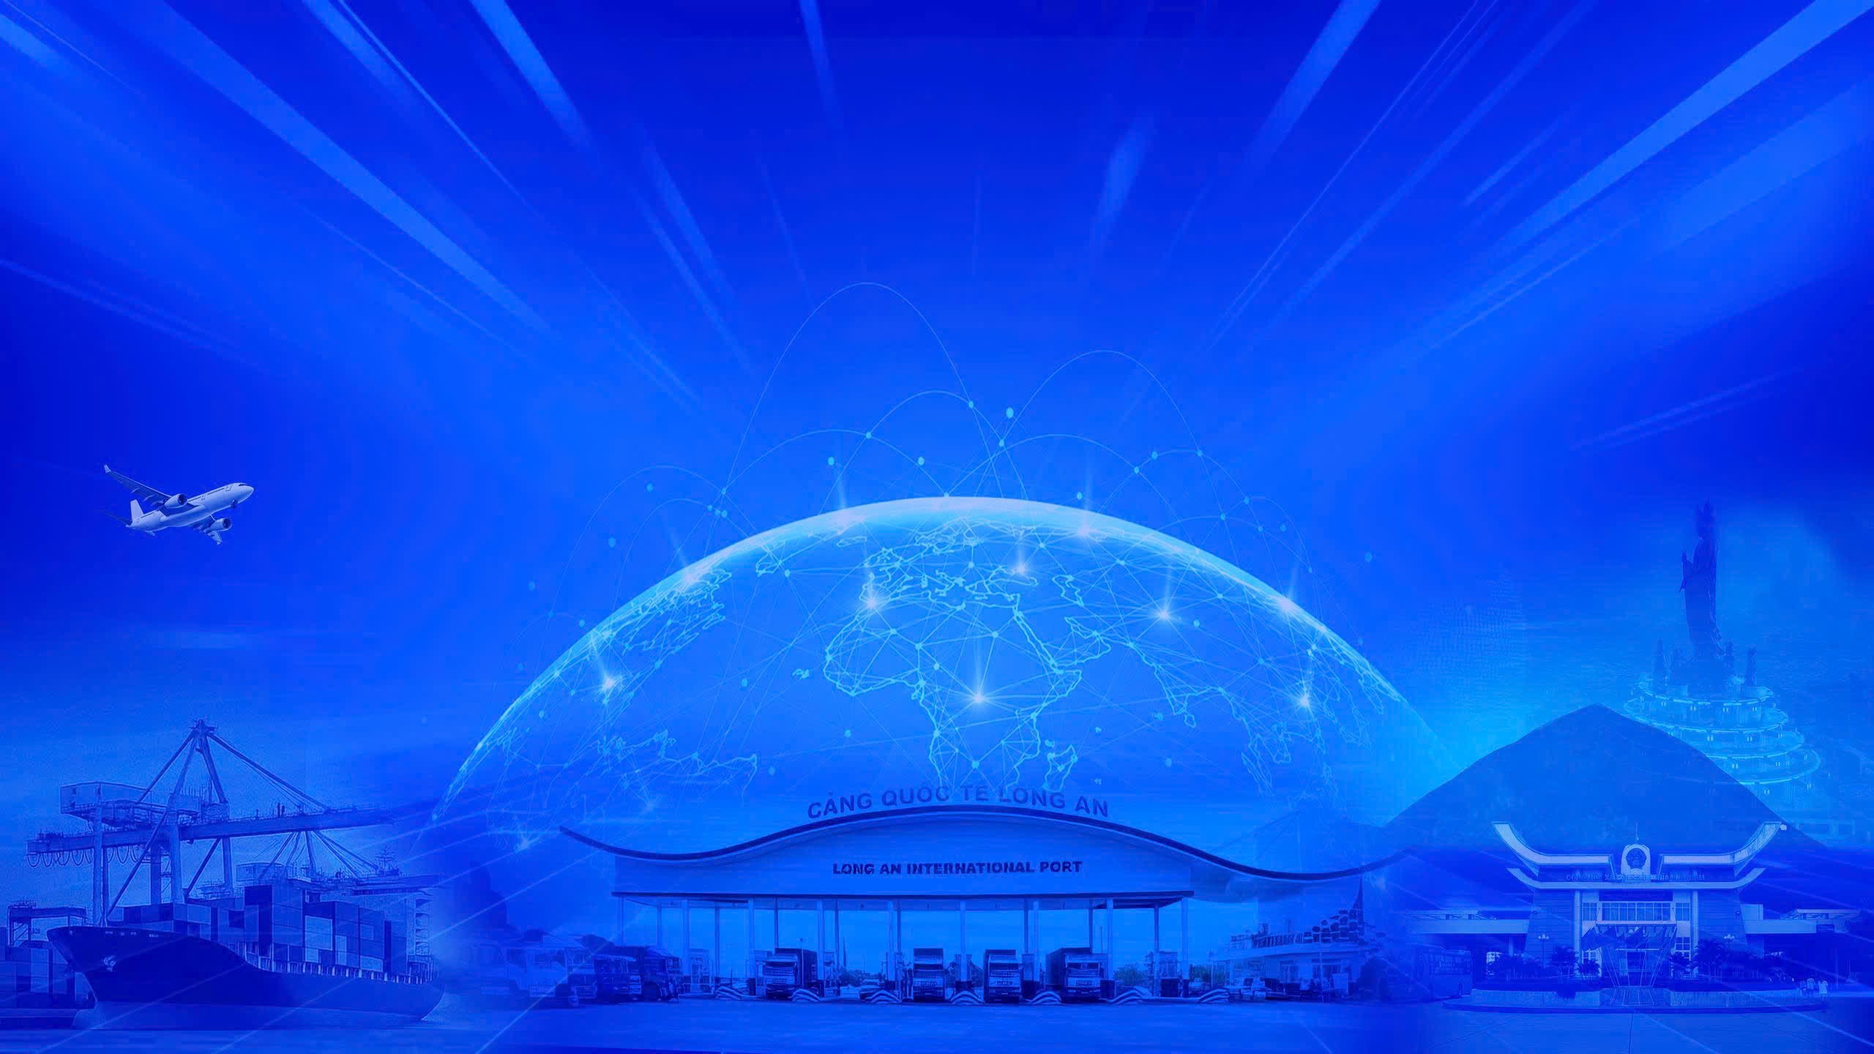
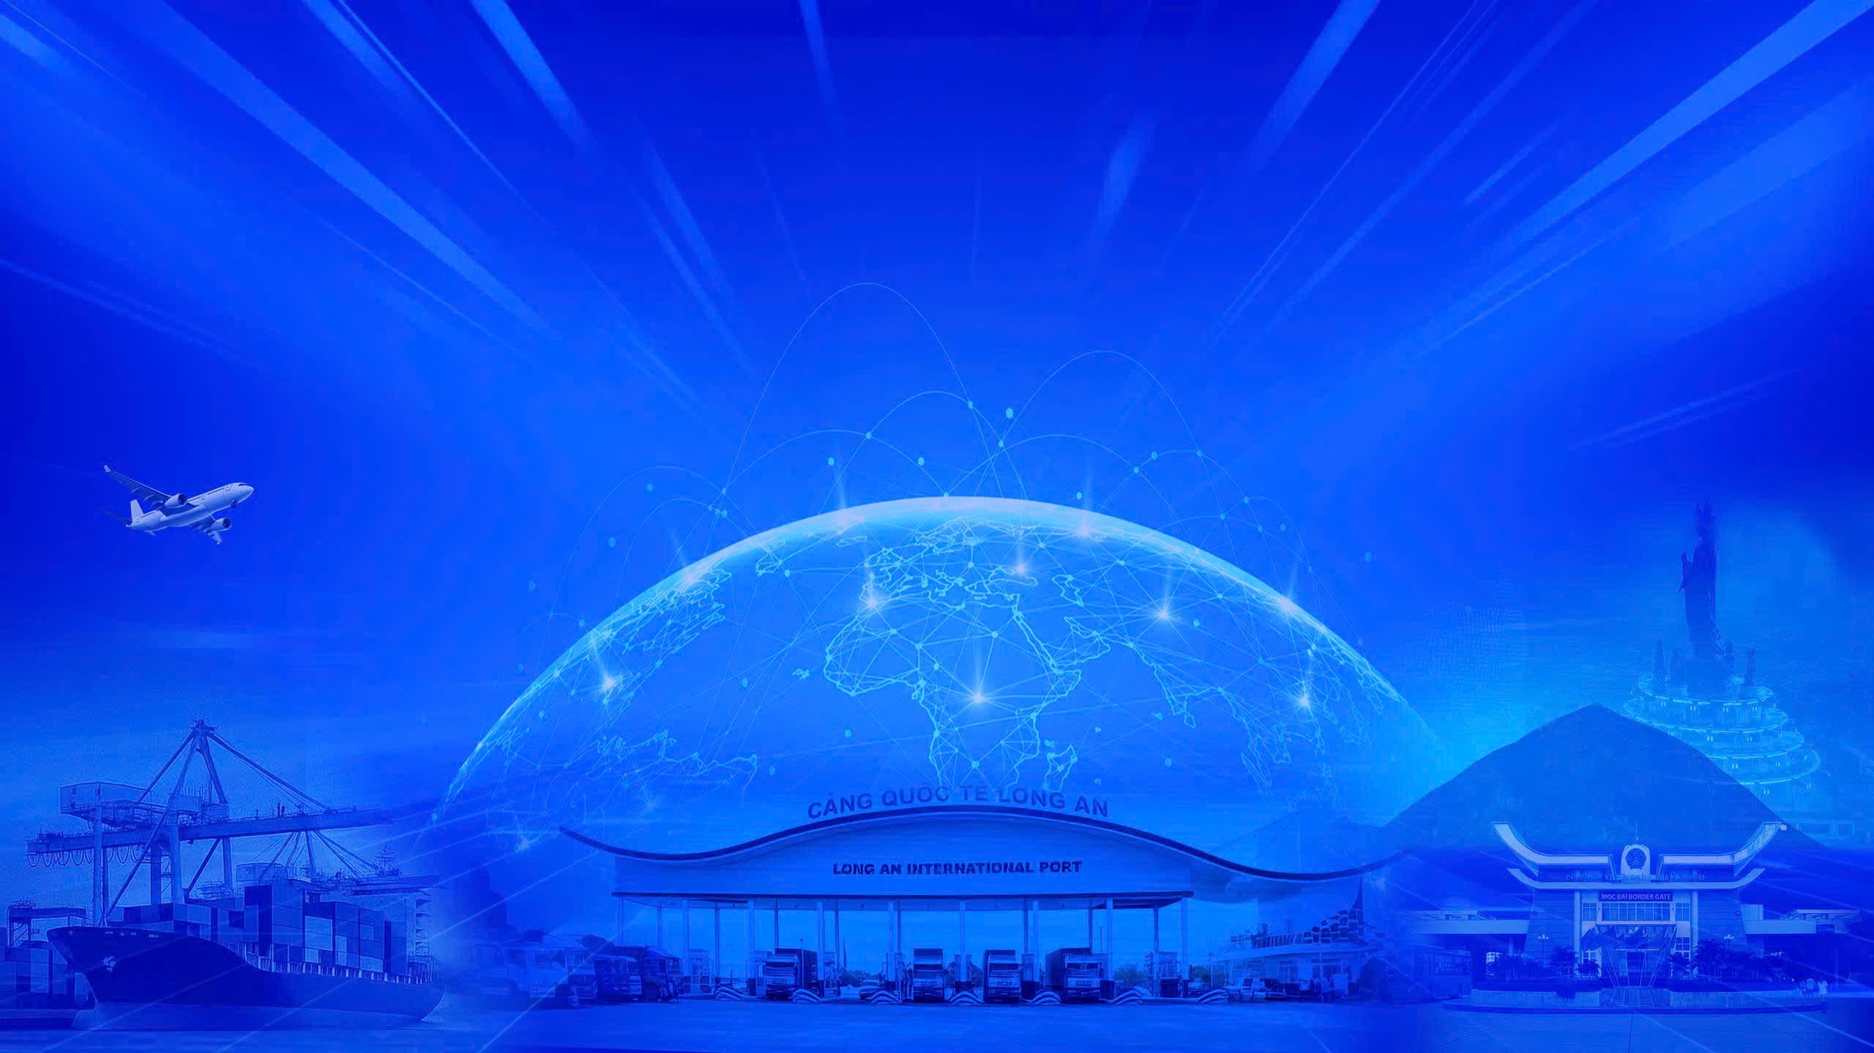
feat(home): update copywriting, contact details, and footer layout
Update event details, contact persons, and optimize homepage styling.

Minor changes:
- Update contact list in footer with specific department representatives
- Add Google Map location link for the venue
- Adjust Hero section spacing and alignment
- Change intro news image aspect ratio to 4:3
- Refine copywriting across several home sections (Timeline, Intro, Industries, Speakers, Parallax)
- Update hero banner image asset

diff --git a/src/components/Footer.tsx b/src/components/Footer.tsx
@@ -1,70 +1,60 @@
 import React from 'react';
 import { MapPin } from 'lucide-react';
-import { footerData } from '@/data';
-import { useAppStore } from '@/store/useAppStore';
+import { footerData, heroData } from '@/data';
 
 const Footer: React.FC = () => {
-  const { title } = useAppStore();
-
   return (
     <footer className="footer">
-      <div className="container footer-layout">
-        <div className="footer-logo-area" style={{ flexDirection: 'column', alignItems: 'flex-start', justifyContent: 'center' }}>
-          <div className="logo text-white" style={{ display: 'flex', alignItems: 'center', gap: '0.75rem' }}>
-
-            <span style={{ fontSize: '1.25rem', fontWeight: 800 }}>{title}</span>
+      <div className="container footer-layout footer-grid-4">
+        <div className="footer-logo-area footer-logo-align" style={{ flexDirection: 'column', justifyContent: 'center' }}>
+          <div className="logo text-white" style={{ display: 'flex', flexDirection: 'column', gap: '0.25rem' }}>
+            <span style={{ fontSize: '1.25rem', fontWeight: 800 }}>{heroData.title1}</span>
+            <span style={{ fontSize: '1.25rem', fontWeight: 800 }}>{heroData.title2}</span>
+            <span style={{ fontSize: '0.95rem', fontWeight: 600 }}>{heroData.subtitle1}</span>
+            <span style={{ fontSize: '0.95rem', fontWeight: 600 }}>{heroData.subtitle2}</span>
           </div>
         </div>
-        <div className="grid grid-cols-3 gap-6" style={{ width: '100%', textAlign: 'left' }}>
-          <div>
-            <h4 style={{ fontSize: '1.125rem', marginBottom: '1rem', fontWeight: 700, color: '#facc15', textTransform: 'uppercase' }}>Đơn vị chỉ đạo</h4>
-            <ul style={{ listStyle: 'none', padding: 0, margin: 0, display: 'flex', flexDirection: 'column', gap: '0.75rem', fontSize: '0.9rem', color: 'rgba(255,255,255,0.8)', marginBottom: '1.5rem' }}>
-              {footerData.directors.map((item, index) => (
-                <li key={index}>{item}</li>
-              ))}
-            </ul>
-            <h4 style={{ fontSize: '1.125rem', marginBottom: '1rem', fontWeight: 700, color: '#facc15', textTransform: 'uppercase' }}>Đơn vị thực hiện</h4>
-            <ul style={{ listStyle: 'none', padding: 0, margin: 0, display: 'flex', flexDirection: 'column', gap: '0.75rem', fontSize: '0.9rem', color: 'rgba(255,255,255,0.8)' }}>
-              {footerData.implementers.map((item, index) => (
-                <li key={index}>{item}</li>
-              ))}
-            </ul>
-          </div>
-          <div>
-            <h4 style={{ fontSize: '1.125rem', marginBottom: '1rem', fontWeight: 700, color: '#facc15', textTransform: 'uppercase' }}>Địa điểm</h4>
-            <ul style={{ listStyle: 'none', padding: 0, margin: 0, display: 'flex', flexDirection: 'column', gap: '0.75rem', fontSize: '0.9rem', color: 'rgba(255,255,255,0.8)' }}>
-              <li style={{ display: 'flex', gap: '0.5rem', alignItems: 'flex-start' }}>
-                <MapPin size={16} style={{ marginTop: '0.15rem', flexShrink: 0 }} />
-                <a
-                  href="https://www.google.com/maps/place/UBND+T%E1%BB%89nh+T%C3%A2y+Ninh/@10.541237,106.4122555,332m/data=!3m1!1e3!4m14!1m7!3m6!1s0x310ab620e5209607:0x885223bd6e764bb7!2zVHJ1bmcgVMOibSBQaOG7pWMgVuG7pSBI4buZaSBuZ2jhu4sgTG9uZyBBbg!8m2!3d10.5411984!4d106.4129984!16s%2Fg%2F11cp5s8r5h!3m5!1s0x310ab6218fffffff:0x680093c4537ba988!8m2!3d10.5413431!4d106.4138736!16s%2Fg%2F1wt3kvw3?entry=ttu&g_ep=EgoyMDI2MDcyMi4wIKXMDSoASAFQAw%3D%3D"
-                  target="_blank"
-                  rel="noopener noreferrer"
-                  style={{ color: 'inherit', textDecoration: 'none' }}
-                  onMouseEnter={e => (e.currentTarget.style.color = '#facc15')}
-                  onMouseLeave={e => (e.currentTarget.style.color = 'rgba(255,255,255,0.8)')}
-                >
-                  {footerData.location}
-                </a>
+        <div>
+          <h4 style={{ fontSize: '1.125rem', marginBottom: '1rem', fontWeight: 700, color: '#facc15', textTransform: 'uppercase' }}>Đơn vị chỉ đạo</h4>
+          <ul style={{ listStyle: 'none', padding: 0, margin: 0, display: 'flex', flexDirection: 'column', gap: '0.75rem', fontSize: '0.9rem', color: 'rgba(255,255,255,0.8)', marginBottom: '1.5rem' }}>
+            {footerData.directors.map((item, index) => (
+              <li key={index}>{item}</li>
+            ))}
+          </ul>
+          <h4 style={{ fontSize: '1.125rem', marginBottom: '1rem', fontWeight: 700, color: '#facc15', textTransform: 'uppercase' }}>Đơn vị thực hiện</h4>
+          <ul style={{ listStyle: 'none', padding: 0, margin: 0, display: 'flex', flexDirection: 'column', gap: '0.75rem', fontSize: '0.9rem', color: 'rgba(255,255,255,0.8)' }}>
+            {footerData.implementers.map((item, index) => (
+              <li key={index}>{item}</li>
+            ))}
+          </ul>
+        </div>
+        <div>
+          <h4 style={{ fontSize: '1.125rem', marginBottom: '1rem', fontWeight: 700, color: '#facc15', textTransform: 'uppercase' }}>Địa điểm</h4>
+          <ul style={{ listStyle: 'none', padding: 0, margin: 0, display: 'flex', flexDirection: 'column', gap: '0.75rem', fontSize: '0.9rem', color: 'rgba(255,255,255,0.8)' }}>
+            <li style={{ display: 'flex', gap: '0.5rem', alignItems: 'flex-start' }}>
+              <MapPin size={16} style={{ marginTop: '0.15rem', flexShrink: 0 }} />
+              <a
+                href={footerData.locationMapUrl}
+                target="_blank"
+                rel="noopener noreferrer"
+                style={{ color: 'inherit', textDecoration: 'none' }}
+                onMouseEnter={e => (e.currentTarget.style.color = '#facc15')}
+                onMouseLeave={e => (e.currentTarget.style.color = 'rgba(255,255,255,0.8)')}
+              >
+                {footerData.location}
+              </a>
+            </li>
+          </ul>
+        </div>
+        <div>
+          <h4 style={{ fontSize: '1.125rem', marginBottom: '1rem', fontWeight: 700, color: '#facc15', textTransform: 'uppercase' }}>Hoặc liên hệ</h4>
+          <ul style={{ listStyle: 'none', padding: 0, margin: 0, display: 'flex', flexDirection: 'column', gap: '0.75rem', fontSize: '0.9rem', color: 'rgba(255,255,255,0.8)' }}>
+            {footerData.contacts.map((c, index) => (
+              <li key={index}>
+                <strong style={{ color: '#fff' }}>{c.label}:</strong> {c.text} <a href={`tel:${c.phone.replace(/\./g, '')}`} style={{ color: 'inherit', textDecoration: 'none' }} onMouseEnter={e => (e.currentTarget.style.color = '#facc15')} onMouseLeave={e => (e.currentTarget.style.color = 'inherit')}>{c.phone}</a>
               </li>
-            </ul>
-          </div>
-          <div>
-            <h4 style={{ fontSize: '1.125rem', marginBottom: '1rem', fontWeight: 700, color: '#facc15', textTransform: 'uppercase' }}>Hoặc liên hệ</h4>
-            <ul style={{ listStyle: 'none', padding: 0, margin: 0, display: 'flex', flexDirection: 'column', gap: '0.75rem', fontSize: '0.9rem', color: 'rgba(255,255,255,0.8)' }}>
-              <li>
-                <strong style={{ color: '#fff' }}>Cơ quan ngoại giao:</strong> Đ/c Thái Hòa - Tel: <a href="tel:0918128365" style={{ color: 'inherit', textDecoration: 'none' }} onMouseEnter={e => (e.currentTarget.style.color = '#facc15')} onMouseLeave={e => (e.currentTarget.style.color = 'inherit')}>0918.128.365</a>
-              </li>
-              <li>
-                <strong style={{ color: '#fff' }}>KCN:</strong> Quốc Tuấn <a href="tel:0949819964" style={{ color: 'inherit', textDecoration: 'none' }} onMouseEnter={e => (e.currentTarget.style.color = '#facc15')} onMouseLeave={e => (e.currentTarget.style.color = 'inherit')}>0949.819.964</a>
-              </li>
-              <li>
-                <strong style={{ color: '#fff' }}>Sở Công Thương:</strong> Đ/c Thúy Duy - Tel: <a href="tel:0979972528" style={{ color: 'inherit', textDecoration: 'none' }} onMouseEnter={e => (e.currentTarget.style.color = '#facc15')} onMouseLeave={e => (e.currentTarget.style.color = 'inherit')}>0979.972.528</a>
-              </li>
-              <li>
-                <strong style={{ color: '#fff' }}>Sở Tài chính:</strong> Tường Oanh <a href="tel:0325492768" style={{ color: 'inherit', textDecoration: 'none' }} onMouseEnter={e => (e.currentTarget.style.color = '#facc15')} onMouseLeave={e => (e.currentTarget.style.color = 'inherit')}>0325.492.768</a>
-              </li>
-            </ul>
-          </div>
+            ))}
+          </ul>
         </div>
       </div>
 
@@ -74,6 +64,30 @@ const Footer: React.FC = () => {
           Được thiết kế bởi <a href="https://gto.vn" target="_blank" rel="noopener noreferrer" style={{ color: 'inherit', textDecoration: 'none', fontWeight: 600 }}>GTO Media</a>
         </div>
       </div>
+
+      <style>{`
+        .footer-grid-4 {
+          grid-template-columns: repeat(4, 1fr);
+        }
+        .footer-logo-align {
+          align-items: flex-start;
+          text-align: left;
+        }
+        @media (max-width: 992px) {
+          .footer-grid-4 {
+            grid-template-columns: repeat(2, 1fr);
+          }
+        }
+        @media (max-width: 640px) {
+          .footer-grid-4 {
+            grid-template-columns: 1fr;
+          }
+          .footer-logo-align {
+            align-items: center;
+            text-align: center;
+          }
+        }
+      `}</style>
     </footer>
   );
 };

diff --git a/src/data/index.ts b/src/data/index.ts
@@ -14,7 +14,7 @@ export const heroData = {
 
 export const introData = {
   title: "GIỚI THIỆU TÂY NINH",
-  desc: "Tây Ninh - Điểm đến tiềm năng cho chuỗi cung ứng xuất nhập khẩu và thương mại điện tử xuyên biên giới.",
+  desc: "Tây Ninh - Trung tâm kết nối chuỗi cung ứng và thương mại điện tử xuyên biên giới.",
   news: [
     {
       title: "Tìm hiểu về Tây Ninh",
@@ -47,9 +47,9 @@ export const aboutData = {
   tagline: "Về Sự Kiện",
   title: "VỀ HỘI NGHỊ",
   desc1:
-    "Hội nghị kết nối chuỗi cung ứng hàng hóa xuất nhập khẩu và thương mại điện tử tỉnh Tây Ninh là sự kiện trọng điểm nhằm thúc đẩy giao thương, tháo gỡ khó khăn trong logistics và phát triển kinh tế số tại khu vực biên giới.",
+    "Hội nghị kết nối chuỗi cung ứng hàng hóa xuất nhập khẩu và thương mại điện tử tỉnh Tây Ninh nhằm thúc đẩy kết nối cung cầu, tăng cường liên kết giữa các chủ thể trong chuỗi cung ứng, góp phần phát triển xuất nhập khẩu, logistics và thương mại điện tử xuyên biên giới, nâng cao năng lực cạnh tranh của doanh nghiệp trong bối cảnh hội nhập.",
   desc2:
-    "Sự kiện quy tụ các cơ quan ban ngành, nền tảng thương mại điện tử hàng đầu, các doanh nghiệp logistics và xuất nhập khẩu. Đây là cơ hội để thiết lập mạng lưới đối tác chiến lược, chia sẻ giải pháp tối ưu hóa vận tải và cập nhật xu hướng thương mại điện tử xuyên biên giới.",
+    "Hội nghị quy tụ đại diện cơ quan quản lý, hiệp hội, doanh nghiệp logistics, xuất nhập khẩu và các nền tảng thương mại điện tử trong và ngoài nước. Đây là diễn đàn thảo luận, cập nhật xu hướng, giới thiệu chính sách mới và mở rộng cơ hội hợp tác, đầu tư, phát triển chuỗi cung ứng bền vững.",
   highlights: [
     { icon: "Calendar", text: "Ngày 5.9.2026" },
     { icon: "Map", text: "Hội trường Thống nhất, UBND tỉnh Tây Ninh" },
@@ -288,18 +288,21 @@ export const footerData = {
   logoImg: "/images/logo.png",
   directors: ["Bộ công thương", "UBND tỉnh Tây Ninh"],
   implementers: ["Sở Công Thương tỉnh Tây Ninh"],
-  location: "Hội trường Thống nhất, Số 61 Nguyễn Huệ, Phường Long An, Tây Ninh",
-  contact: {
-    phone: "0276 3811 111",
-    email: "socongthuong@tayninh.gov.vn",
-    website: "tayninh.gov.vn",
-  },
+  location: "Hội trường Thống nhất, số 61 Nguyễn Huệ, phường Long An, tỉnh Tây Ninh",
+  locationMapUrl:
+    "https://www.google.com/maps/place/UBND+T%E1%BB%89nh+T%C3%A2y+Ninh/@10.541237,106.4122555,332m/data=!3m1!1e3!4m14!1m7!3m6!1s0x310ab620e5209607:0x885223bd6e764bb7!2zVHJ1bmcgVMOibSBQaOG7pWMgVuG7pSBI4buZaSBuZ2jhu4sgTG9uZyBBbg!8m2!3d10.5411984!4d106.4129984!16s%2Fg%2F11cp5s8r5h!3m5!1s0x310ab6218fffffff:0x680093c4537ba988!8m2!3d10.5413431!4d106.4138736!16s%2Fg%2F1wt3kvw3?entry=ttu&g_ep=EgoyMDI2MDcyMi4wIKXMDSoASAFQAw%3D%3D",
+  contacts: [
+    { label: "Cơ quan ngoại giao", text: "Thái Hòa", phone: "0918.128.365" },
+    { label: "Khu công nghiệp", text: "Quốc Tuấn", phone: "0949.819.964" },
+    { label: "Sở Công Thương", text: "Thúy Duy", phone: "0979.972.528" },
+    { label: "Sở Tài chính", text: "Tường Oanh", phone: "0325.492.768" },
+  ],
 };
 
 export const benefitsData = {
   tagline: "Vì sao nên tham gia?",
   title: "QUYỀN LỢI ĐẠI BIỂU",
-  desc: "Hội nghị mở ra nhiều cơ hội thiết thực cho các doanh nghiệp, nhà đầu tư và tổ chức quan tâm đến sự phát triển của chuỗi cung ứng Tây Ninh.",
+  desc: "Hội nghị mở ra cơ hội kết nối, hợp tác và xúc tiến đầu tư cho các doanh nghiệp, nhà đầu tư và tổ chức, góp phần phát triển chuỗi cung ứng, logistics và thương mại điện tử tại tỉnh Tây Ninh.",
   items: [
     {
       icon: "Globe",

diff --git a/src/components/home/HeroSection.tsx b/src/components/home/HeroSection.tsx
@@ -25,45 +25,42 @@ const HeroSection: React.FC = () => {
       {/* Removed dark overlay as requested */}
 
       <div
-        className={`container hero-content text-center ${currentLang === 'en' ? 'notranslate' : ''}`}
+        className={`container hero-content text-center ${currentLang === "en" ? "notranslate" : ""}`}
         style={{ position: "relative", zIndex: 2 }}
       >
-        <div className="hero-logo-large" style={{ textShadow: "0 4px 15px rgba(0, 0, 0, 0.8), 0 2px 5px rgba(0, 0, 0, 0.8)", maxWidth: "100vw", overflow: "hidden" }}>
-          {currentLang === 'en' ? (
+        <div
+          className="hero-logo-large"
+          style={{
+            textShadow:
+              "0 4px 15px rgba(0, 0, 0, 0.8), 0 2px 5px rgba(0, 0, 0, 0.8)",
+            maxWidth: "100vw",
+            overflow: "hidden",
+          }}
+        >
+          {currentLang === "en" ? (
             <>
-              <p className="en-subtitle">
-                TAY NINH E-COMMERCE AND
-              </p>
+              <p className="en-subtitle">TAY NINH E-COMMERCE AND</p>
               <p className="en-subtitle" style={{ marginBottom: "0.8rem" }}>
                 EXPORT-IMPORT SUPPLY CHAIN
               </p>
               <h1 className="en-title" style={{ marginBottom: "0" }}>
                 NETWORKING
               </h1>
-              <h1 className="en-title">
-                FORUM 2026
-              </h1>
-              <p className="hero-date-line">
-                Tay Ninh, September 5, 2026
-              </p>
+              <h1 className="en-title">FORUM 2026</h1>
+              <p className="hero-date-line">Tay Ninh, September 5, 2026</p>
             </>
           ) : (
             <>
-              <h1 className="hero-title-main">
-                {heroData.title1}
-              </h1>
-              <h2 className="hero-title-sub">
-                {heroData.title2}
-              </h2>
-              <p className="hero-location-line" style={{ marginBottom: "0.3rem" }}>
+              <h1 className="hero-title-main">{heroData.title1}</h1>
+              <h2 className="hero-title-sub">{heroData.title2}</h2>
+              <p
+                className="hero-location-line"
+                style={{ marginBottom: "0.3rem" }}
+              >
                 {heroData.subtitle1}
               </p>
-              <p className="hero-location-line">
-                {heroData.subtitle2}
-              </p>
-              <p className="hero-date-line">
-                {heroData.date}
-              </p>
+              <p className="hero-location-line">{heroData.subtitle2}</p>
+              <p className="hero-date-line">{heroData.date}</p>
             </>
           )}
         </div>
@@ -73,8 +70,9 @@ const HeroSection: React.FC = () => {
         .hero {
           position: relative;
           overflow: hidden;
-          padding-top: 140px;
+          padding-top: 160px;
           padding-bottom: 60px;
+          align-items: flex-start !important;
         }
         .hero-content {
           margin-top: 0 !important;
@@ -84,9 +82,6 @@ const HeroSection: React.FC = () => {
           justify-content: center;
         }
         @media (max-width: 768px) {
-          .hero {
-            padding-top: 120px;
-          }
           .hero-content {
             margin-top: 0 !important;
           }

diff --git a/src/components/home/IntroSection.tsx b/src/components/home/IntroSection.tsx
@@ -58,17 +58,17 @@ const IntroSection: React.FC = () => {
                 }}
               >
                 {/* Image */}
-                <div style={{ width: "100%", aspectRatio: "16/9", overflow: "hidden" }}>
-                  <img 
-                    src={newsItem.image} 
-                    alt={newsItem.title} 
-                    style={{ 
-                      width: "100%", 
-                      height: "100%", 
+                <div style={{ width: "100%", aspectRatio: "4/3", overflow: "hidden" }}>
+                  <img
+                    src={newsItem.image}
+                    alt={newsItem.title}
+                    style={{
+                      width: "100%",
+                      height: "100%",
                       objectFit: "cover",
                       transform: isHovered ? "scale(1.05)" : "scale(1)",
                       transition: "transform 0.5s ease"
-                    }} 
+                    }}
                   />
                 </div>
 

diff --git a/src/components/home/TimelineSection.tsx b/src/components/home/TimelineSection.tsx
@@ -56,7 +56,7 @@ const TimelineSection: React.FC = () => {
           </span>
           <h2 className="section-title text-center">CHƯƠNG TRÌNH SỰ KIỆN</h2>
           <p style={{ color: "var(--text-secondary)", maxWidth: 560, fontSize: "1.05rem", lineHeight: 1.7 }}>
-            Lịch trình được xây dựng chuyên sâu, kết hợp hài hòa giữa tham luận, triển lãm và kết nối doanh nghiệp.
+            Nội dung chương trình được thiết kế toàn diện, gồm các phiên tham luận chuyên sâu, không gian triển lãm và hoạt động kết nối, hợp tác giữa các doanh nghiệp.
           </p>
         </div>
 

diff --git a/src/components/home/SpeakersSection.tsx b/src/components/home/SpeakersSection.tsx
@@ -30,8 +30,10 @@ const SpeakersSection: React.FC = () => {
               fontSize: "1.125rem",
             }}
           >
-            Các chủ đề tham luận chuyên sâu được trình bày bởi các nhà tham tán
-            thương mại của các nước và chuyên gia quốc tế.
+            Các tham luận chuyên sâu được trình bày bởi đại diện cơ quan
+            thương mại, tham tán thương mại và các chuyên gia quốc tế, tập
+            trung vào những xu hướng, giải pháp và kinh nghiệm thực tiễn
+            trong lĩnh vực liên quan.
           </p>
         </div>
 

diff --git a/src/components/home/IndustriesSection.tsx b/src/components/home/IndustriesSection.tsx
@@ -27,7 +27,7 @@ const IndustriesSection: React.FC = () => {
               lineHeight: 1.75,
             }}
           >
-            Tây Ninh hội tụ đầy đủ các thế mạnh chiến lược về hạ tầng, logistics, cửa khẩu và công nghiệp để bứt phá trở thành trung tâm giao thương khu vực.
+            Phát huy lợi thế vị trí, hạ tầng và cửa khẩu, Tây Ninh từng bước khẳng định vai trò đầu mối giao thương và trung chuyển vùng Đông Nam Bộ và biên giới.
           </p>
         </div>
 

diff --git a/src/components/home/ParallaxDivider.tsx b/src/components/home/ParallaxDivider.tsx
@@ -25,8 +25,8 @@ const ParallaxDivider: React.FC = () => {
             color: "rgba(255,255,255,0.9)",
           }}
         >
-          Hành trình chuyển đổi số và tối ưu hóa logistics bắt đầu từ những cái
-          bắt tay chiến lược tại Tây Ninh.
+          Những kết nối chiến lược mở ra động lực mới cho chuyển đổi số, phát
+          triển logistics và thương mại điện tử xuyên biên giới.
         </p>
       </div>
       <div className="parallax-overlay"></div>
